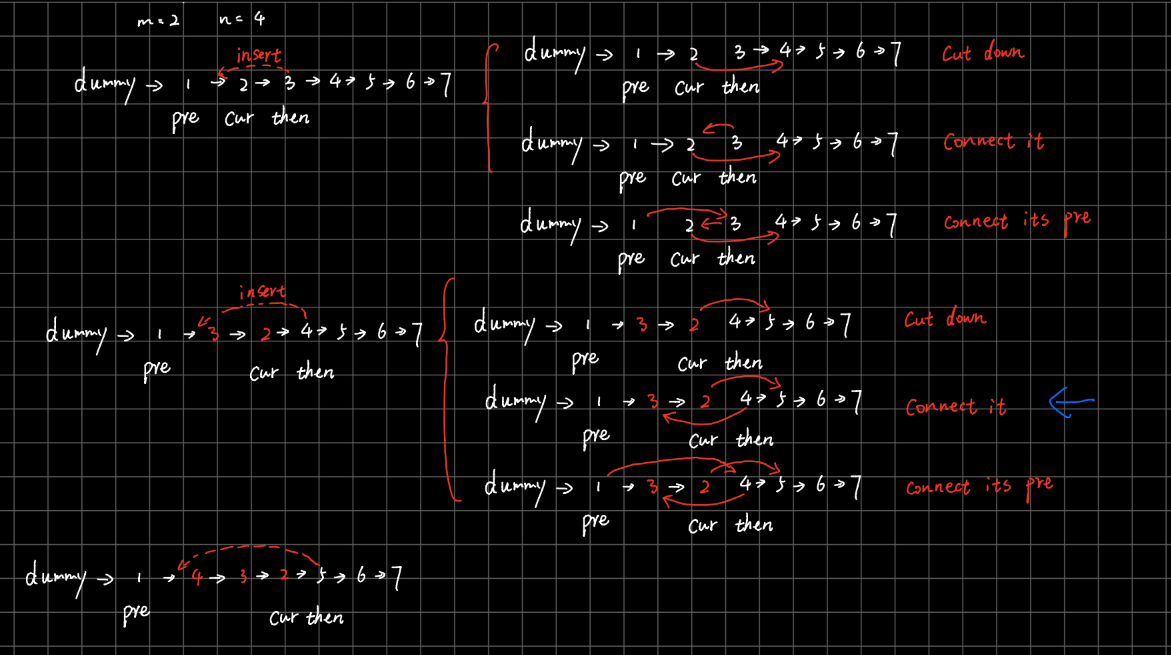
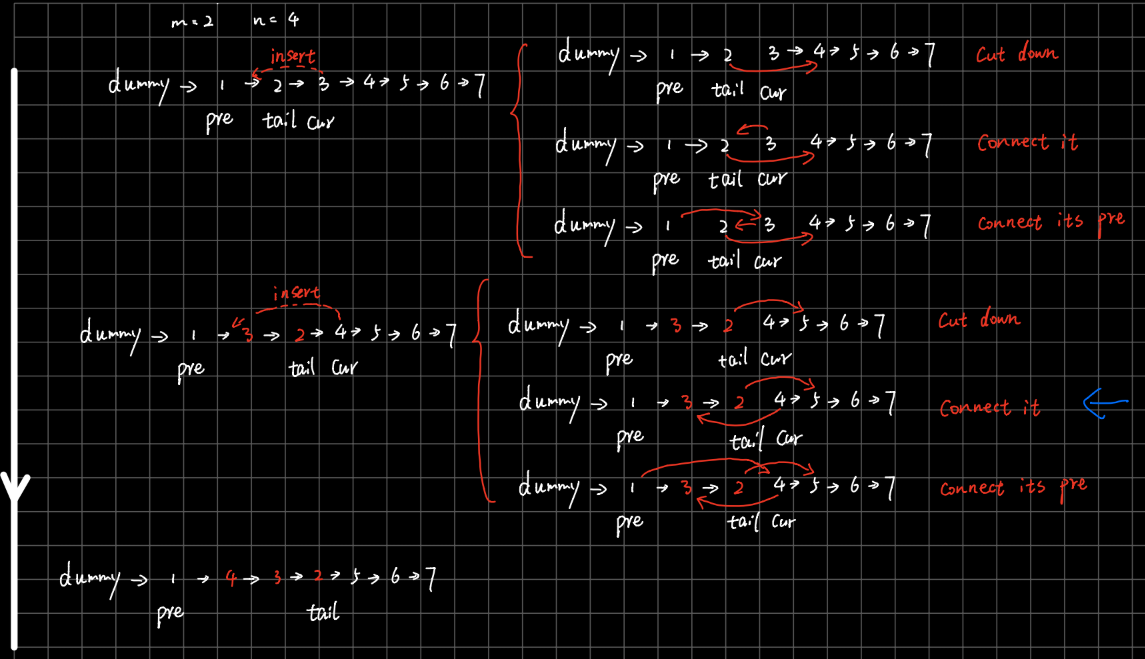
06/01/2020

Changed region(s): [[0.0, 0.0, 1.0, 1.0]]

diff --git a/LinkedList/Reverse_Linked_List_II/Reverse_Linked_List_II.java b/LinkedList/Reverse_Linked_List_II/Reverse_Linked_List_II.java
@@ -3,38 +3,30 @@ package LeetCode_Java.LinkedList.Reverse_Linked_List_II;
 import LeetCode_Java.buildinClass.ListNode;
 
 public class Reverse_Linked_List_II {
-
-    //--------------------------recursion--------------------------
     public ListNode reverseBetween(ListNode head, int m, int n) {
-        // write your code here
         ListNode dummy = new ListNode(0);
         dummy.next = head;
         ListNode pre = dummy;
-        ListNode end = dummy;
-        for (int i = 1; i <= n+1; i++){
-            if (i < m){
-                pre = pre.next;
-            }
-            end = end.next;
-        }
-        head = pre.next;
 
-        pre.next = helper(pre.next, m, n);//connect pre -> tail and reverse linkedlist from m to n
-        head.next = end; // connect head --> end
+        //confirm position of pre
+        for(int i = 0;i < m-1; i++) pre = pre.next;
+
+        //confirm cur and tail
+        ListNode tail = pre.next;
+        ListNode cur = tail.next;
+
+        //reverse
+        for(int i =0; i < n - m; i++){ //operate n - m times
+            //swap
+            tail.next = cur.next; //cut
+            cur.next = pre.next; // connect it; it is not `then.next = cur.next`
+            pre.next = cur;      // connect its pre
+
+            //re-locate then; we don't need to move cur, because after swap, cur has been moved
+            cur = tail.next;
+        }
 
         return dummy.next;
-
     }
-    private ListNode helper(ListNode node, int m, int n){
-        if (m == n) return node;
-        ListNode tail = helper(node.next, m + 1, n);
-        node.next.next = node;
-        node.next = null;
-
-        return tail;
-    }
-    //--------------------------iterator--------------------------
-
-
 
 }

diff --git a/LinkedList/Reverse_Nodes_in_k_Group/Reverse_Nodes_in_k_Group.java b/LinkedList/Reverse_Nodes_in_k_Group/Reverse_Nodes_in_k_Group.java
@@ -1,0 +1,47 @@
+package LeetCode_Java.LinkedList.Reverse_Nodes_in_k_Group;
+
+import LeetCode_Java.buildinClass.ListNode;
+
+public class Reverse_Nodes_in_k_Group {
+    public ListNode reverseKGroup(ListNode head, int k) {
+        if (head == null || head.next == null) return head;
+
+        ListNode dummy = new ListNode(0);
+        dummy.next = head;
+        ListNode last = dummy, pre = dummy, tail = pre.next, cur = tail.next;
+
+
+        while(true){
+            // because it says "If the number of nodes is not a multiple of k
+            // then left-out nodes in the end should remain as it is."
+
+            // so move the `last` pointer to confirm if the rest nodes are bigger than k
+            int count = k;
+            while (last != null && count >=0){
+                last = last.next;
+                count--;
+            }
+            if (count >= 0 && last == null) break;
+
+            //reverse nodes between pre and last
+            tail = pre.next;
+            cur = tail.next;
+            while (cur != last){
+                tail.next = cur.next;
+                cur.next = pre.next;
+                pre.next = cur;
+
+                cur = tail.next;
+            }
+            //update pre and last to the next loop;
+            //notice that tail is the last node of the reversed linkedlist part
+            pre = tail;
+            last = tail;
+        }
+
+        return dummy.next;
+
+
+
+    }
+}

diff --git a/LinkedList/Reverse_Nodes_in_k_Group/test.java b/LinkedList/Reverse_Nodes_in_k_Group/test.java
@@ -1,0 +1,20 @@
+package LeetCode_Java.LinkedList.Reverse_Nodes_in_k_Group;
+
+import LeetCode_Java.buildinClass.ListNode;
+
+public class test {
+    public static void main(String[] args) {
+        ListNode a = new ListNode(1);
+        ListNode b = new ListNode(2);
+        ListNode c = new ListNode(3);
+        ListNode d = new ListNode(4);
+        ListNode e = new ListNode(5);
+
+        a.next = b;
+        b.next = c;
+        c.next = d;
+        d.next = e;
+        Reverse_Nodes_in_k_Group so = new Reverse_Nodes_in_k_Group();
+        so.reverseKGroup(a, 2);
+    }
+}

diff --git a/LinkedList/Reverse_Linked_List_II/README.md b/LinkedList/Reverse_Linked_List_II/README.md
@@ -120,14 +120,14 @@ class Solution:
 
 ![](../../Image/Reverse_Linked_List_II_1.png)
 
-every time, insert `then` between `pre` and `pre.next`, and keep moving `then` forward by 1
+every time, insert `cur` between `pre` and `pre.next`, and keep moving `tail` forward by 1
 
-the role of `cur` is to keep forward so as to confirm the position of `then` :`cur.next = then`
+the role of `tail` is to keep forward so as to confirm the position of `cur` :`tail.next =  cur`
 
 ### Key Points
 
-1. every time, after swapping `cur` and `then`, the `cur` will move forward 1. there is need to use `cur = cur.next` to move it; 
-2. when reverse(shown in the picture as the blue arrow ) , it is not `then.next = cur.next` but `then.next = pre.next`
+1. every time, after swapping `cur` and `tail`, the `tail` will automatically move forward 1. there is need to use `tail = tail.next` to move it; 
+2. from (shown in the picture as the blue arrow ) , it is not `cur.next = tail` but `cur.next = pre.next`
 
 ### code
 
@@ -142,19 +142,19 @@ class Solution {
         //confirm position of pre
         for(int i = 0;i < m-1; i++) pre = pre.next; 
         
-        //confirm cur and then
-        ListNode cur = pre.next;
-        ListNode then = cur.next;
+        //confirm cur and tail
+        ListNode tail = pre.next;
+        ListNode cur = tail.next;
         
         //reverse
         for(int i =0; i < n - m; i++){ //operate n - m times
             //swap
-            cur.next = then.next; //cut
-            then.next = pre.next; // connect it; it is not `then.next = cur.next`
-            pre.next = then;      // connect its pre
+            tail.next = cur.next; //cut
+            cur.next = pre.next; // connect it; it is not `then.next = cur.next`
+            pre.next = cur;      // connect its pre
             
             //re-locate then; we don't need to move cur, because after swap, cur has been moved
-            then = cur.next;
+            cur = tail.next;
         }
         
         return dummy.next;

diff --git a/LinkedList/Reverse_Nodes_in_k_Group/README.md b/LinkedList/Reverse_Nodes_in_k_Group/README.md
@@ -1,0 +1,74 @@
+# 25.  Reverse Nodes in k-Group
+
+
+[LeetCode 25](https://leetcode.com/problems/reverse-nodes-in-k-group/)
+
+
+## Methods
+
+### Method 
+just like [Reverse_Linked_List_II](../Reverse_Linked_List_II), we could use `tail`, `cur`, `pre` to 
+reverse the linkedlists. 
+
+because it says "If the number of nodes is not a multiple of k then left-out nodes in the end should remain as it is."
+so every loop, need `last` and `count` to confirm if the rest nodes are bigger than k. 
+
+so need 4 variables: `last` `pre` `cur` `tail`
+
+### Key Points
+every loop, don't forget to update the pre and last; 
+
+### Code
+```java
+public class Solution {
+    /**
+    * @param head: a ListNode
+    * @param k: An integer
+    * @return: a ListNode
+    */
+    public ListNode reverseKGroup(ListNode head, int k) {
+        if (head == null || head.next == null) return head;
+        
+        ListNode dummy = new ListNode(0);
+        dummy.next = head; 
+        ListNode last = dummy, pre = dummy, tail = pre.next, cur = tail.next; 
+        
+        
+        while(true){
+            // move the last to confirm if the rest nodes are bigger than k
+            int count = k;
+            while (last != null && count >=0){
+                last = last.next; 
+                count--;
+            }
+            if (count >= 0 && last == null) break; 
+        
+            //reverse nodes between pre and last 
+            tail = pre.next; 
+            cur = tail.next;
+            while (cur != last){
+                tail.next = cur.next;
+                cur.next = pre.next;
+                pre.next = cur;
+                
+                cur = tail.next;
+            }
+            //update pre and last to the next loop;
+            //notice that tail is the last node of the reversed linkedlist part
+            pre = tail; 
+            last = tail; 
+        }
+        
+        return dummy.next;
+      
+
+
+    }
+    
+
+}
+
+```
+
+
+## Reference

diff --git a/README.md b/README.md
@@ -103,3 +103,4 @@ If you couldn't find an answer here, you could move to [my friend](https://githu
 * [Swap_Nodes_in_Pairs](LinkedList/Swap_Nodes_in_Pairs)
 * [Reverse_Linked_List](LinkedList/Reverse_Linked_List)
 * [Reverse_Linked_List_II](LinkedList/Reverse_Linked_List_II)
+* [Reverse_Nodes_in_k_Group](LinkedList/Reverse_Nodes_in_k_Group)
